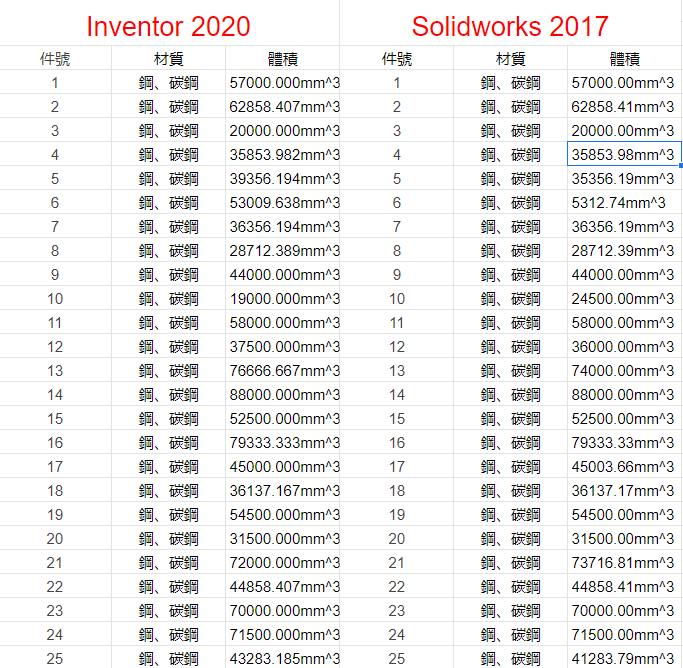
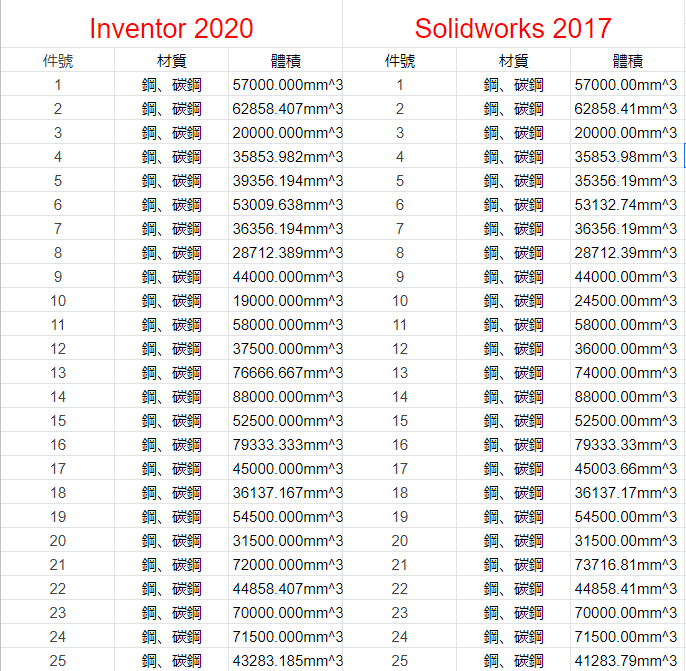
W1體積對應表修改錯誤值

diff --git a/content/tipuesearch_content.js b/content/tipuesearch_content.js
@@ -1,1 +1,1 @@
-var tipuesearch = {"pages": [{'title': '簡介', 'text': '\xa0 設計二甲 40823120 范維倫. \xa0  倉儲cad2020 \n \xa0 \xa0 \xa0', 'tags': '', 'url': '簡介.html'}, {'title': 'Topics', 'text': '', 'tags': '', 'url': 'Topics.html'}, {'title': 'W1', 'text': '\xa0零件體積對照表 \n \n', 'tags': '', 'url': 'W1.html'}]};
+var tipuesearch = {"pages": [{'title': '簡介', 'text': '\xa0 設計二甲 40823120 范維倫 \xa0  倉儲cad2020 \n \xa0 \xa0 \xa0', 'tags': '', 'url': '簡介.html'}, {'title': 'Topics', 'text': '', 'tags': '', 'url': 'Topics.html'}, {'title': 'W1', 'text': '\xa0零件體積對照表 \n \n', 'tags': '', 'url': 'W1.html'}]};

diff --git a/config/content.htm b/config/content.htm
@@ -1,7 +1,7 @@
 <h1>簡介</h1>
-<p>  設計二甲 40823120 范維倫.<br/>  <a href="https://github.com/40823120/cad2020">倉儲cad2020</a></p>
+<p>  設計二甲 40823120 范維倫<br/>  <a href="https://github.com/40823120/cad2020">倉儲cad2020</a></p>
 <p>     </p><h1>Topics</h1>
 <h2>W1</h2>
 <p> 零件體積對照表</p>
-<p><img alt="" height="668" src="/images/1-25.png" width="683"/></p>
+<p><img alt="" height="671" src="/images/1-25.png" width="686"/></p>
 <p><img alt="" height="601" src="/images/26-50.png" width="676"/></p>

diff --git a/content/W1.html b/content/W1.html
@@ -135,7 +135,7 @@ img.add_border {
         </header>
     <div id="tipue_search_content">Topics << <a href='Topics.html'>Previous</a> <br /><h1>W1</h1>
 <p> 零件體積對照表</p>
-<p><img alt="" height="668" src="./../images/1-25.png" width="683"/></p>
+<p><img alt="" height="671" src="./../images/1-25.png" width="686"/></p>
 <p><img alt="" height="601" src="./../images/26-50.png" width="676"/></p><br />Topics << <a href='Topics.html'>Previous</a> </div>
         
     <!-- footer -->

diff --git a/content/index.html b/content/index.html
@@ -134,7 +134,7 @@ img.add_border {
           
         </header>
     <div id="tipue_search_content"> <a href='Topics.html'>Next</a> >> Topics<br /><h1>簡介</h1>
-<p>  設計二甲 40823120 范維倫.<br/>  <a href="https://github.com/40823120/cad2020">倉儲cad2020</a></p>
+<p>  設計二甲 40823120 范維倫<br/>  <a href="https://github.com/40823120/cad2020">倉儲cad2020</a></p>
 <p>     </p><br /> <a href='Topics.html'>Next</a> >> Topics</div>
         
     <!-- footer -->

diff --git a/content/簡介.html b/content/簡介.html
@@ -134,7 +134,7 @@ img.add_border {
           
         </header>
     <div id="tipue_search_content"> <a href='Topics.html'>Next</a> >> Topics<br /><h1>簡介</h1>
-<p>  設計二甲 40823120 范維倫.<br/>  <a href="https://github.com/40823120/cad2020">倉儲cad2020</a></p>
+<p>  設計二甲 40823120 范維倫<br/>  <a href="https://github.com/40823120/cad2020">倉儲cad2020</a></p>
 <p>     </p><br /> <a href='Topics.html'>Next</a> >> Topics</div>
         
     <!-- footer -->
